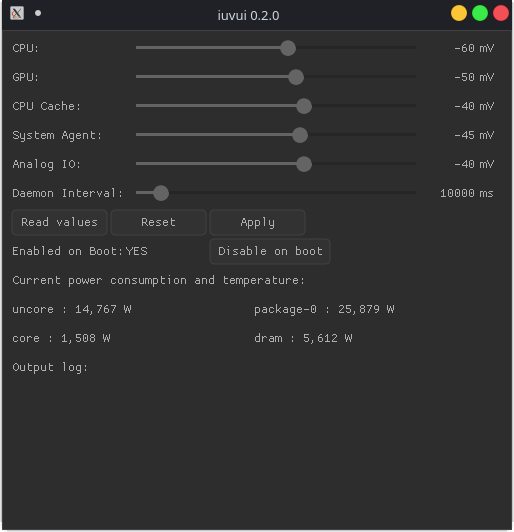
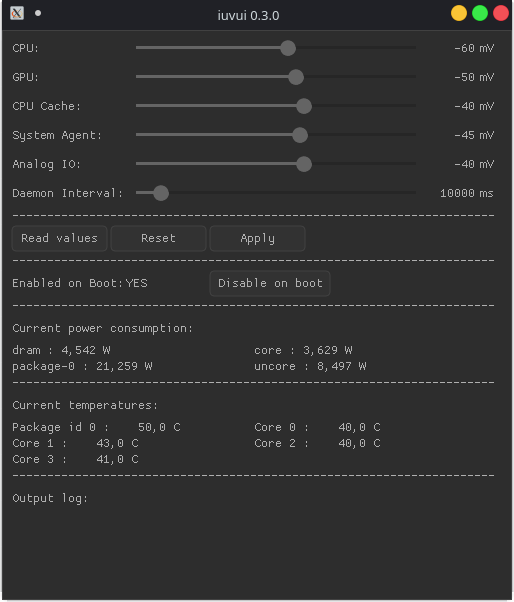
Bump version, update changelog & screenshot

diff --git a/CHANGELOG.md b/CHANGELOG.md
@@ -1,2 +1,8 @@
+# v0.3.0
+    - added: info about current temperatures
+
+# v0.2.0
+    - added: info about current power consumption
+
 # v0.1.0
     - added: enable/disable on boot
